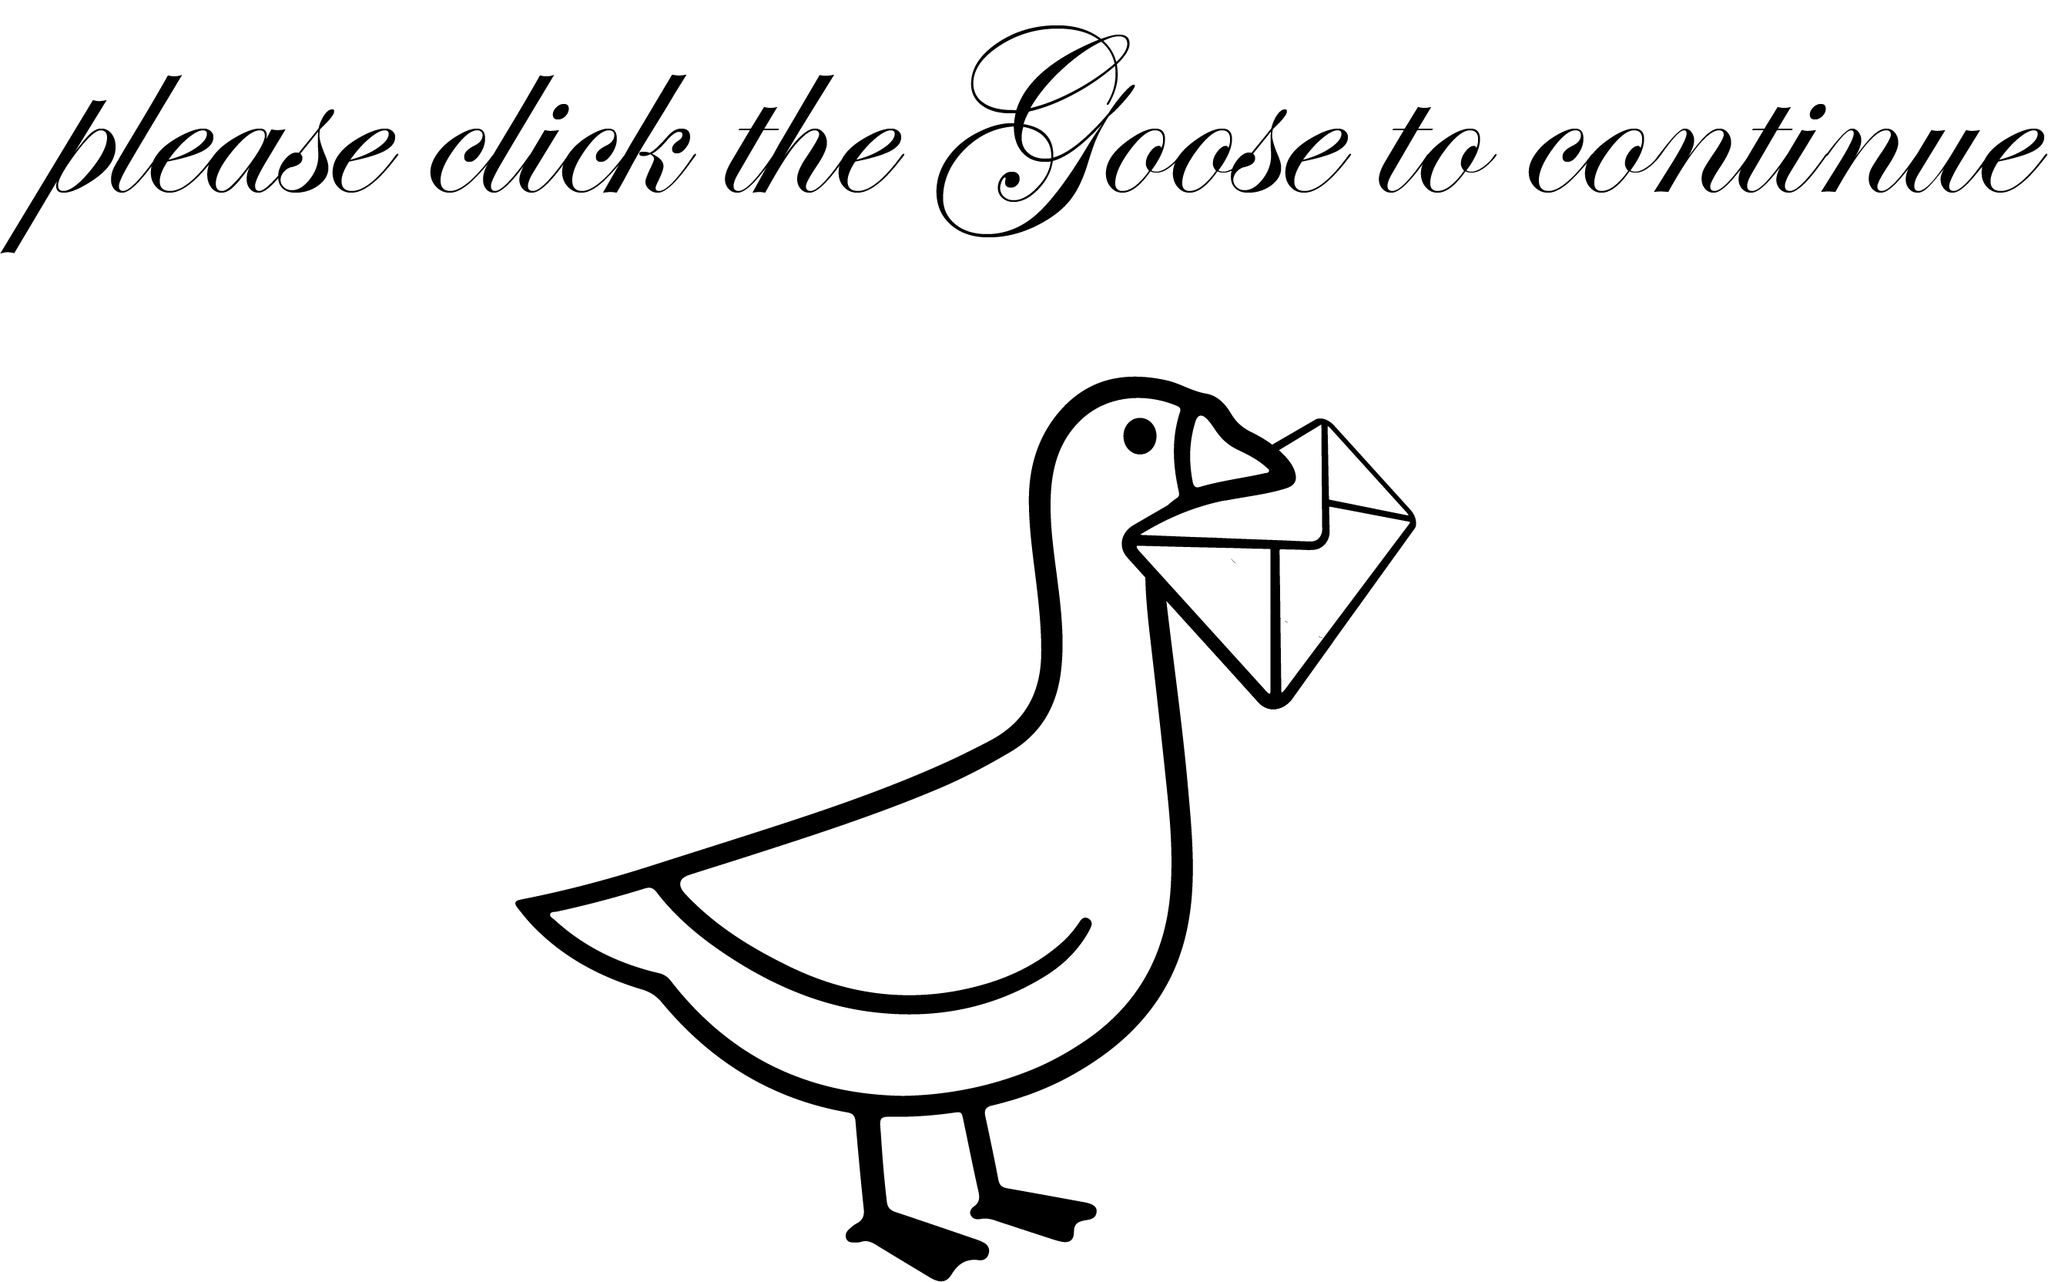
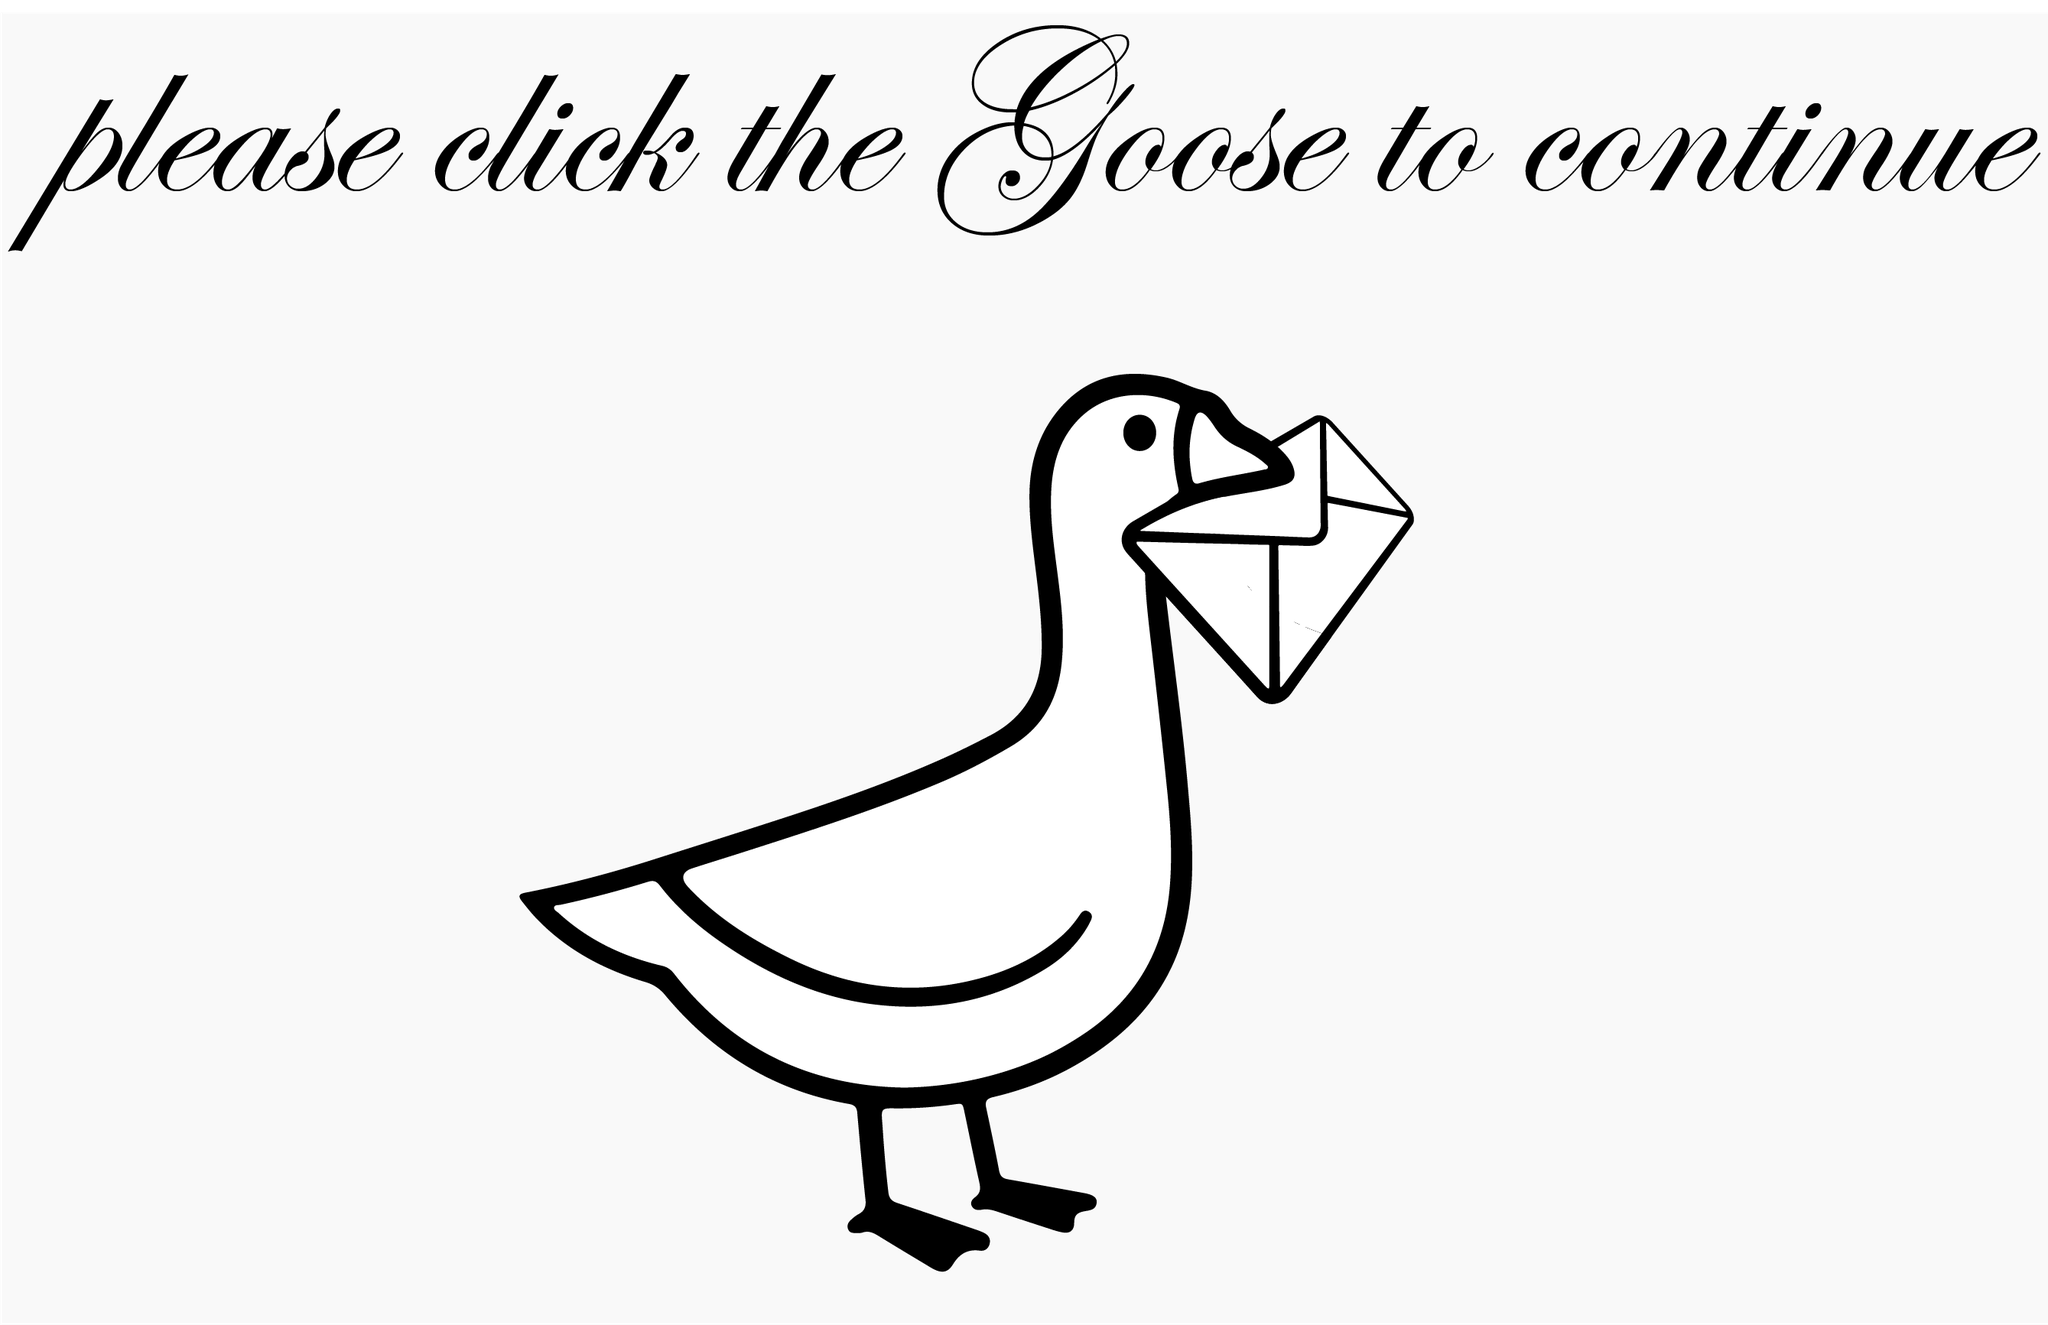
Update images and increase row width on mobile

Changed region(s): [[0.25, 0.4992, 0.5938, 1.0], [0.0, 0.0, 1.0, 0.1872], [0.5, 0.2808, 0.6875, 0.624]]

diff --git a/assets/style.css b/assets/style.css
@@ -1,6 +1,5 @@
 :root {
-    --main-bg-color: #F2EEE2;
-    --main-txt-color: #595964;
+    --main-bg-color: #f9f9f9;
   }
 /* COLORS NOT CURRENTLY USED */
 
@@ -56,4 +55,13 @@ margin-left: auto;
 }
 .goose:hover .img-top {
     display: inline;
+}
+
+@media (hover:none), (hover:on-demand) {
+    .row {
+        width: 100%
+    }
+    .goose {
+        max-width: 100%;
+    }
 }
